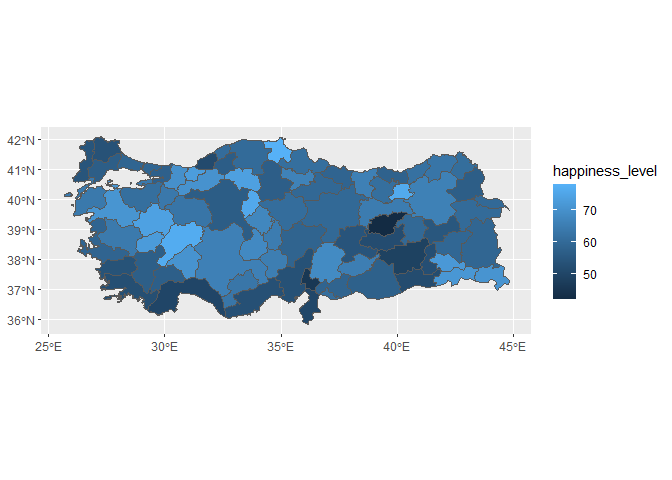
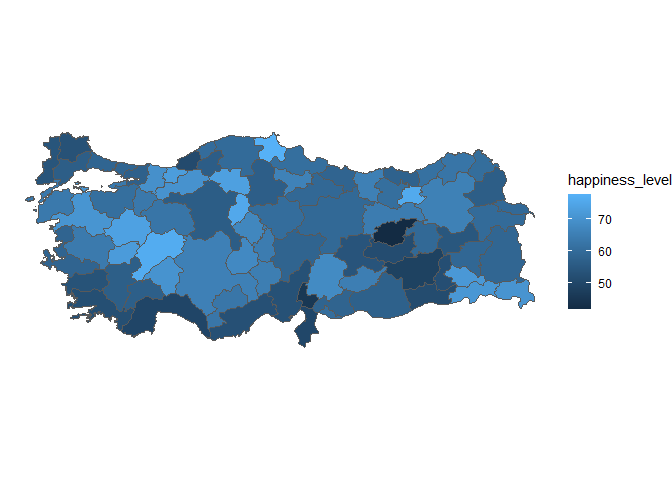
initial commit

diff --git a/README.md b/README.md
@@ -105,6 +105,8 @@ ggplot(tr_ilce) +
 
 ## Merging with your data set
 
+### NUTS-3 example
+
 ``` r
 # load example data set 
 data("trdata2015")
@@ -114,7 +116,8 @@ tr_happiness <- trdata2015 %>%
 # merge with geo-spatial data 
 tr_happiness2 <- left_join(tr_nuts3, tr_happiness, by = c("name_tr" = "province"))
 ggplot(tr_happiness2) + 
-  geom_sf(aes(fill = happiness_level))
+  geom_sf(aes(fill = happiness_level)) +
+  theme_void()
 ```
 
 <img src="man/img/usage-ex6-1.png" width="100%" />
@@ -137,3 +140,45 @@ tm_shape(tr_happiness2) +
 # tm_shape(tr_happiness2) +
 #  tm_polygons("happiness_level")
 ```
+
+### District-level example
+
+``` r
+# load population data 
+data("trpopdata_ilce")
+# map of 2019 district population
+ilce_pop_2019 <- trpopdata_ilce %>% 
+  filter(year==2019) %>% 
+  select(no, pop) 
+
+ilce_pop_2019_comb <- left_join(tr_ilce, ilce_pop_2019, by = c("tuik_no" = "no"))
+# compute population density
+ilce_pop_2019_comb <- ilce_pop_2019_comb %>% 
+  mutate(area = st_area(ilce_pop_2019_comb)) %>% 
+  mutate(density = pop/(Shape_Area*10000), 
+         logdensity = log(density))
+```
+
+``` r
+# istanbul 
+ilce_pop_2019_comb %>% filter(adm1 == "TUR034") %>%
+  ggplot() +
+  geom_sf(aes(fill = density)) + 
+  scale_fill_viridis_c(trans = "log10", 
+                       breaks=c(0,100,1000,10000)) +
+  labs(fill = "Nüfus Yoğunluğu") + 
+  theme_void()
+```
+
+<img src="man/img/usage-unnamed-chunk-8-1.png" width="100%" />
+
+``` r
+# use tmap package 
+# tmap_mode("view")
+tm_shape(ilce_pop_2019_comb) +
+tm_polygons(c("density"), style = "log10_pretty",
+title = "Nüfus yoğunluğu (log)") +
+  tm_layout(legend.outside = TRUE)
+```
+
+<img src="man/img/usage-unnamed-chunk-9-1.png" width="100%" />
